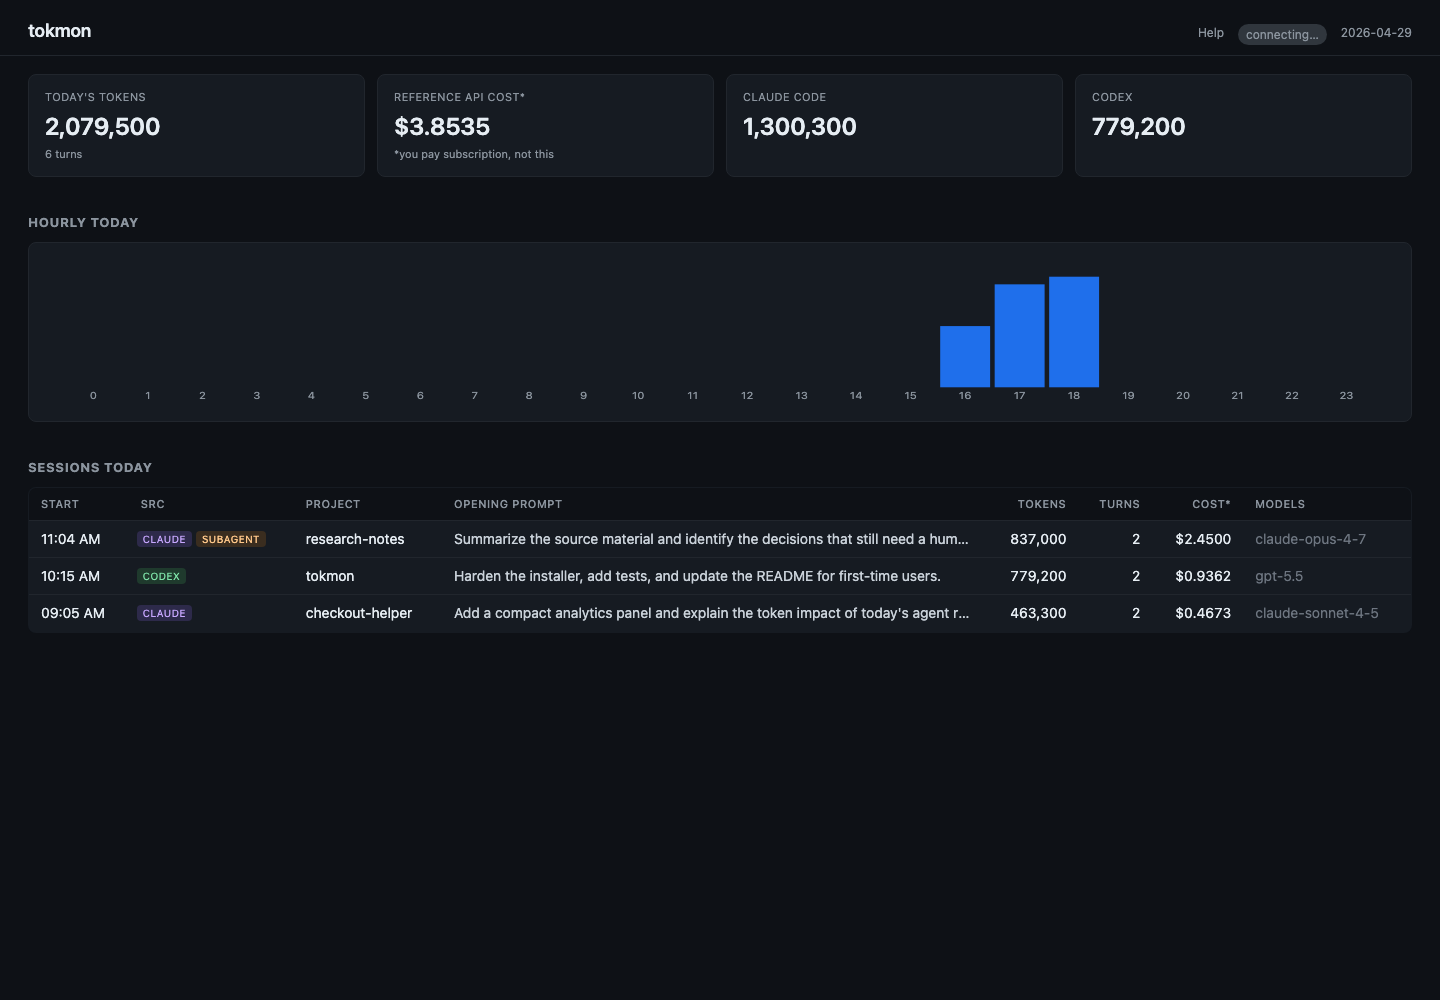
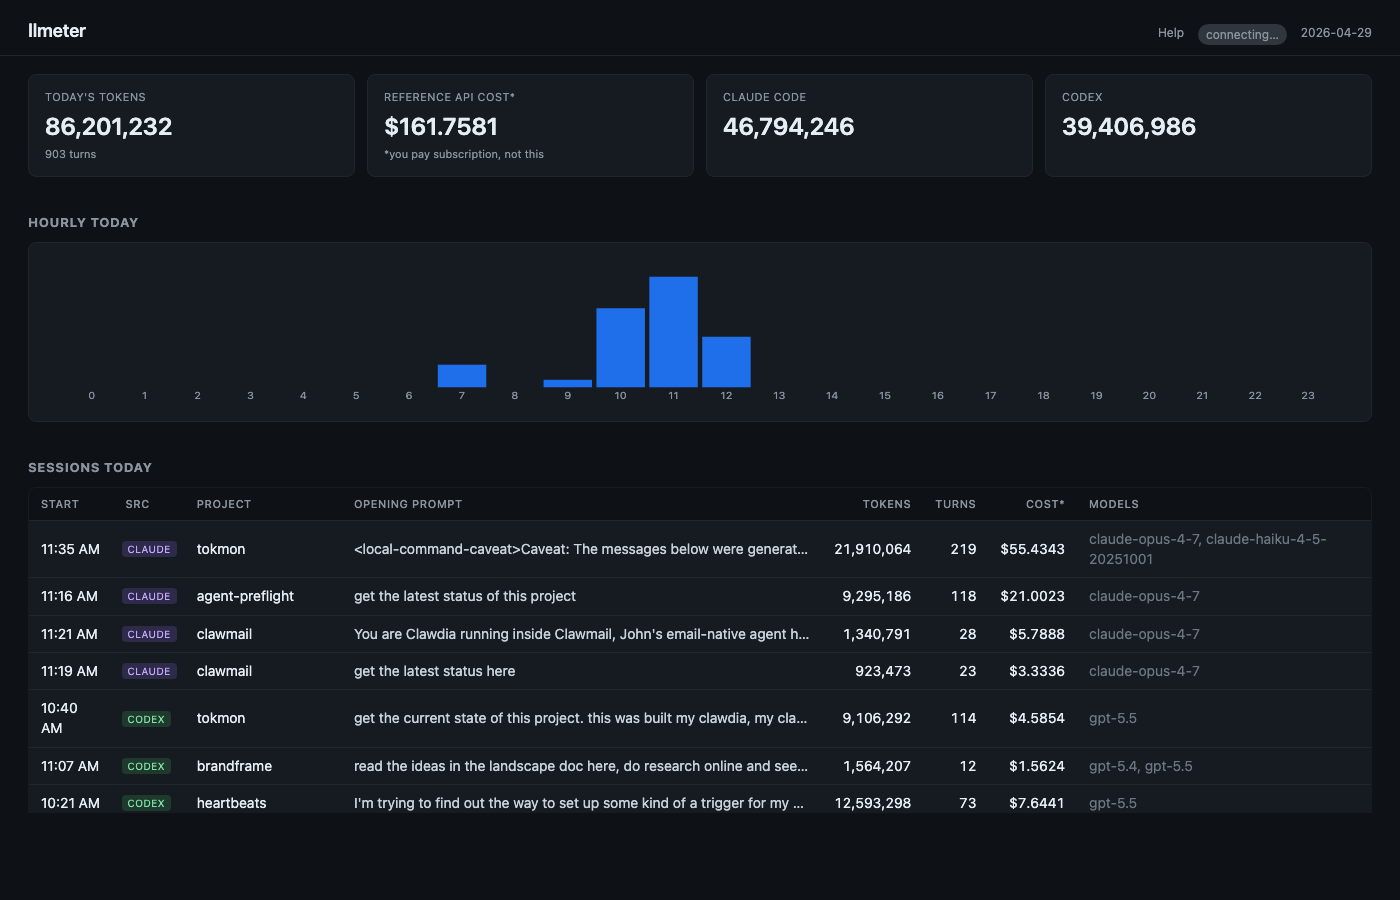
v0.1.1: fix FD leak, polish UX
- Fix sqlite3 connection FD leak in db.connect(): switched to
  @user so connections actually close on `with` exit.
  Previously the sqlite3.Connection context manager committed but did
  not close, causing the service to wedge into "unable to open
  database file" + connection-reset state after some uptime.
  Verified: 63 FDs before / 63 FDs after 200 requests.
- Repoint Help link to GitHub README; remove local /docs route + page.
  README is the source of truth, no need to maintain a second copy.
- Remove hover color-change on hourly bars to avoid implying clickability.
- Refresh dashboard + session-detail screenshots on the live data
  with the renamed branding.

diff --git a/llmeter/static/style.css b/llmeter/static/style.css
@@ -39,7 +39,6 @@ h2 { font-size: 13px; text-transform: uppercase; letter-spacing: 0.05em; color: 
 #chart { width: 100%; height: 180px; background: #161b22; border: 1px solid #21262d; border-radius: 8px; padding: 10px; }
 #chart svg { width: 100%; height: 100%; }
 #chart rect.bar { fill: #1f6feb; }
-#chart rect.bar:hover { fill: #58a6ff; }
 #chart text { fill: #8b949e; font-size: 10px; }
 
 table { width: 100%; border-collapse: collapse; background: #161b22; border: 1px solid #21262d; border-radius: 8px; overflow: hidden; }
@@ -66,26 +65,3 @@ dialog .close { float: right; background: none; border: 1px solid #30363d; color
 .turn-row .h { color: #8b949e; font-size: 10px; text-transform: uppercase; }
 
 .muted { color: #6e7681; }
-
-.docs-page {
-  max-width: 860px;
-  margin: 0 auto;
-  padding: 28px;
-}
-.docs-page h1 { font-size: 28px; margin: 0 0 8px; }
-.docs-page h2 { margin-top: 28px; }
-.docs-page p, .docs-page li { color: #c9d1d9; }
-.docs-page code {
-  background: #161b22;
-  border: 1px solid #21262d;
-  border-radius: 4px;
-  padding: 1px 4px;
-}
-.docs-page pre {
-  background: #161b22;
-  border: 1px solid #21262d;
-  border-radius: 8px;
-  overflow-x: auto;
-  padding: 12px;
-}
-.docs-page a { color: #58a6ff; }

diff --git a/llmeter/static/index.html b/llmeter/static/index.html
@@ -9,7 +9,7 @@
 <header>
   <h1>llmeter</h1>
   <div class="meta">
-    <a class="help-link" href="/docs">Help</a>
+    <a class="help-link" href="https://github.com/jawnty/llmeter#readme" target="_blank" rel="noopener">Help</a>
     <span id="status" class="status">connecting…</span>
     <span id="day"></span>
   </div>

diff --git a/llmeter/db.py b/llmeter/db.py
@@ -1,6 +1,7 @@
 import sqlite3
 import os
 import threading
+from contextlib import contextmanager
 from . import config
 
 _LOCK = threading.Lock()
@@ -49,12 +50,16 @@ CREATE TABLE IF NOT EXISTS file_offsets (
 """
 
 
+@contextmanager
 def connect():
     conn = sqlite3.connect(config.db_path(), timeout=30, isolation_level=None)
     conn.execute("PRAGMA journal_mode=WAL")
     conn.execute("PRAGMA synchronous=NORMAL")
     conn.row_factory = sqlite3.Row
-    return conn
+    try:
+        yield conn
+    finally:
+        conn.close()
 
 
 def init():

diff --git a/llmeter/server.py b/llmeter/server.py
@@ -29,11 +29,6 @@ def index():
     return FileResponse(os.path.join(STATIC_DIR, "index.html"))
 
 
[email redacted]("/docs", response_class=HTMLResponse)
-def docs():
-    return FileResponse(os.path.join(STATIC_DIR, "docs.html"))
-
-
 @app.get("/api/today")
 def api_today():
     day = _today_local()